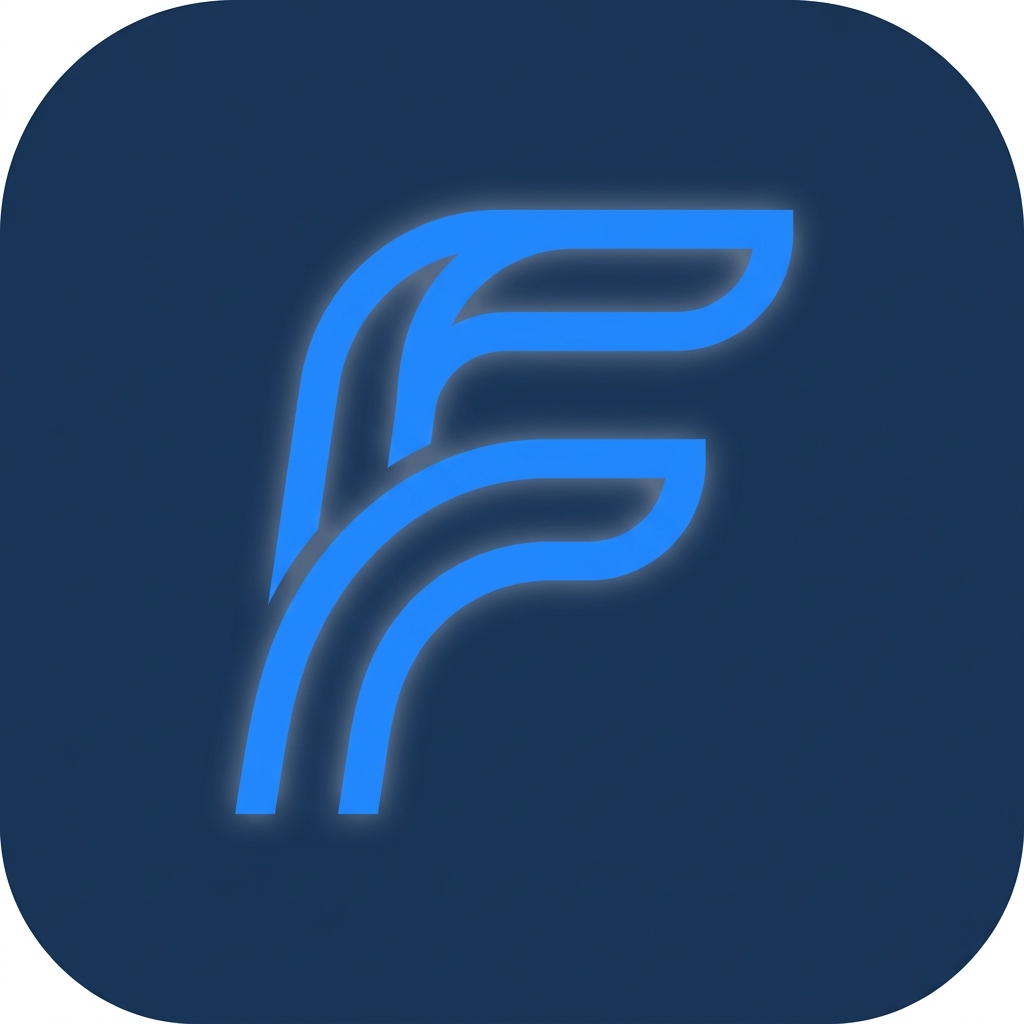
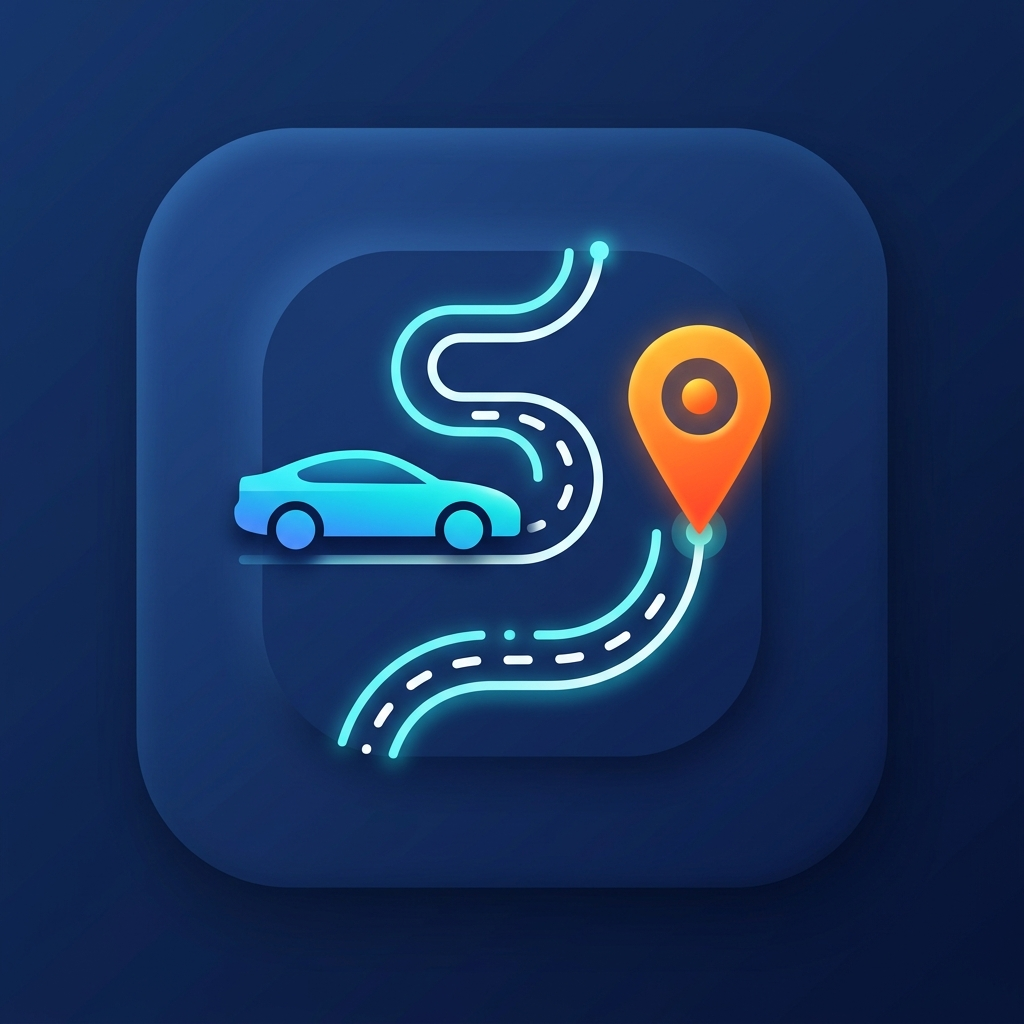
feat(mobile): uygulama logosu premium gece mavisi tasarimla yenilendi

diff --git a/mobile-app/src/screens/HomeScreen.js b/mobile-app/src/screens/HomeScreen.js
@@ -6,6 +6,7 @@ import { MaterialCommunityIcons as Icon } from '@expo/vector-icons';
 import { AuthContext } from '../context/AuthContext';
 import api from '../api/axios';
 import { LinearGradient } from 'expo-linear-gradient';
+import { BlurView } from 'expo-blur';
 import dayjs from 'dayjs';
 import 'dayjs/locale/tr';
 
@@ -65,18 +66,52 @@ export default function HomeScreen({ navigation }) {
     };
 
     const KpiCard = ({ icon, title, value, gradientColors, darkColor, isHalf }) => (
-        <View style={[styles.kpi3DBase, { backgroundColor: darkColor }]}>
-            <LinearGradient colors={gradientColors} style={[styles.kpiCard, isHalf && { padding: 18, flexDirection: 'column', alignItems: 'flex-start' }]} start={{x: 0, y: 0}} end={{x: 1, y: 1}}>
-                <View style={[styles.kpiIconBox, { shadowColor: darkColor, backgroundColor: 'transparent' }, isHalf && { width: 46, height: 46, borderRadius: 14, marginBottom: 12, marginRight: 0 }]}>
-                    <Image source={{ uri: get3DIcon(icon) }} style={{ width: isHalf ? 36 : 48, height: isHalf ? 36 : 48 }} resizeMode="contain" />
-                </View>
-                <View style={[styles.kpiInfo, isHalf && { width: '100%' }]}>
-                    <Text style={[styles.kpiValue, isHalf && { fontSize: 28 }]} adjustsFontSizeToFit numberOfLines={1}>{value !== undefined ? value : '-'}</Text>
-                    <Text style={[styles.kpiTitle, isHalf && { fontSize: 13 }]} adjustsFontSizeToFit numberOfLines={1}>{title}</Text>
-                </View>
-            </LinearGradient>
+        <View style={[styles.kpi3DBase, { shadowColor: darkColor }]}>
+            <BlurView intensity={30} tint="dark" style={{ borderRadius: 28, overflow: 'hidden' }}>
+                <LinearGradient colors={[gradientColors[0] + '90', gradientColors[1] + '50']} style={[styles.kpiCard, isHalf && { padding: 18, flexDirection: 'column', alignItems: 'flex-start' }]} start={{x: 0, y: 0}} end={{x: 1, y: 1}}>
+                    <View style={[styles.kpiIconBox, { shadowColor: darkColor, backgroundColor: 'rgba(255,255,255,0.1)' }, isHalf && { width: 46, height: 46, borderRadius: 14, marginBottom: 12, marginRight: 0 }]}>
+                        <Image source={{ uri: get3DIcon(icon) }} style={{ width: isHalf ? 36 : 48, height: isHalf ? 36 : 48 }} resizeMode="contain" />
+                    </View>
+                    <View style={[styles.kpiInfo, isHalf && { width: '100%' }]}>
+                        <Text style={[styles.kpiValue, isHalf && { fontSize: 28 }]} adjustsFontSizeToFit numberOfLines={1}>{value !== undefined ? value : '-'}</Text>
+                        <Text style={[styles.kpiTitle, isHalf && { fontSize: 13 }]} adjustsFontSizeToFit numberOfLines={1}>{title}</Text>
+                    </View>
+                </LinearGradient>
+            </BlurView>
         </View>
     );
+
+    const QuickActions = () => {
+        const actions = [
+            { id: 1, title: 'Yeni Şoför', icon: 'account-plus', color: '#8B5CF6', route: 'Personnel' },
+            { id: 2, title: 'Yeni Araç', icon: 'car-side', color: '#3B82F6', route: 'VehiclesTab' },
+            { id: 3, title: 'Seferler', icon: 'map-marker-path', color: '#10B981', route: 'Trips' },
+            { id: 4, title: 'Maaşlar', icon: 'cash-multiple', color: '#F59E0B', route: 'Payroll' },
+        ];
+
+        return (
+            <View style={{ marginBottom: 30 }}>
+                <Text style={styles.sectionTitle}>Hızlı İşlemler</Text>
+                <ScrollView horizontal showsHorizontalScrollIndicator={false} contentContainerStyle={{ gap: 16 }}>
+                    {actions.map(action => (
+                        <TouchableOpacity 
+                            key={action.id} 
+                            style={styles.quickActionCard}
+                            activeOpacity={0.7}
+                            onPress={() => navigation.navigate(action.route)}
+                        >
+                            <BlurView intensity={20} tint="light" style={styles.quickActionBlur}>
+                                <View style={[styles.quickActionIconBox, { backgroundColor: action.color + '25' }]}>
+                                    <Icon name={action.icon} size={26} color={action.color} />
+                                </View>
+                                <Text style={styles.quickActionTitle}>{action.title}</Text>
+                            </BlurView>
+                        </TouchableOpacity>
+                    ))}
+                </ScrollView>
+            </View>
+        );
+    };
 
     const renderMaintenanceHealth = () => {
         if (!stats?.maintenance_health || stats.maintenance_health.length === 0) {
@@ -91,6 +126,7 @@ export default function HomeScreen({ navigation }) {
 
         return stats.maintenance_health.map((mh, i) => (
             <View key={i} style={styles.mhCard}>
+                <BlurView intensity={40} tint="dark" style={StyleSheet.absoluteFillObject} />
                 <LinearGradient colors={['rgba(255,255,255,0.05)', 'transparent']} style={StyleSheet.absoluteFillObject} />
                 <View style={styles.mhHeader}>
                     <View style={styles.mhHeaderLeft}>
@@ -157,6 +193,9 @@ export default function HomeScreen({ navigation }) {
                     {stats ? (
                         <Animated.View style={{ opacity: fadeAnim, transform: [{ translateY: slideAnim }] }}>
                             
+                            {/* Hızlı İşlemler */}
+                            <QuickActions />
+
                             {/* KPI Grid */}
                             <Text style={styles.sectionTitle}>Filo Özeti</Text>
                             <View style={styles.kpiContainer}>
@@ -212,15 +251,20 @@ const styles = StyleSheet.create({
 
     kpiContainer: { gap: 12 },
     kpiRow: { flexDirection: 'row' },
-    kpi3DBase: { borderRadius: 28, paddingBottom: 8, paddingRight: 2, shadowColor: '#000', shadowOffset: { width: 0, height: 10 }, shadowopacity: 1, shadowRadius: 15, elevation: 12, marginBottom: 8 },
-    kpiCard: { padding: 22, flexDirection: 'row', alignItems: 'center', borderRadius: 28, borderWidth: 1, borderColor: 'rgba(255,255,255,0.2)' },
-    kpiIconBox: { width: 60, height: 60, borderRadius: 20, backgroundColor: 'rgba(255,255,255,0.15)', alignItems: 'center', justifyContent: 'center', marginRight: 16, shadowOffset: { width: 0, height: 4 }, shadowopacity: 1, shadowRadius: 6, elevation: 4 },
+    kpi3DBase: { borderRadius: 28, shadowColor: '#000', shadowOffset: { width: 0, height: 10 }, shadowOpacity: 0.8, shadowRadius: 15, elevation: 12, marginBottom: 8 },
+    kpiCard: { padding: 22, flexDirection: 'row', alignItems: 'center', borderRadius: 28, borderWidth: 1, borderColor: 'rgba(255,255,255,0.1)' },
+    kpiIconBox: { width: 60, height: 60, borderRadius: 20, alignItems: 'center', justifyContent: 'center', marginRight: 16, shadowOffset: { width: 0, height: 4 }, shadowOpacity: 1, shadowRadius: 6, elevation: 4 },
     kpiInfo: { flex: 1 },
-    kpiValue: { fontSize: 36, fontWeight: '900', color: '#FFF', letterSpacing: -1, marginBottom: 2, textShadowColor: 'rgba(0,0,0,0.3)', textShadowOffset: { width: 0, height: 2 }, textShadowRadius: 4 },
-    kpiTitle: { fontSize: 14, fontWeight: '700', color: 'rgba(255,255,255,0.9)', letterSpacing: 0.5 },
+    kpiValue: { fontSize: 36, fontWeight: '900', color: '#FFF', letterSpacing: -1, marginBottom: 2, textShadowColor: 'rgba(0,0,0,0.5)', textShadowOffset: { width: 0, height: 2 }, textShadowRadius: 8 },
+    kpiTitle: { fontSize: 14, fontWeight: '700', color: 'rgba(255,255,255,0.8)', letterSpacing: 0.5 },
+
+    quickActionCard: { width: 105, height: 115, borderRadius: 24, overflow: 'hidden', borderWidth: 1, borderColor: 'rgba(255,255,255,0.1)' },
+    quickActionBlur: { flex: 1, alignItems: 'center', justifyContent: 'center', padding: 10, backgroundColor: 'rgba(255,255,255,0.03)' },
+    quickActionIconBox: { width: 54, height: 54, borderRadius: 20, alignItems: 'center', justifyContent: 'center', marginBottom: 10 },
+    quickActionTitle: { color: '#F8FAFC', fontSize: 13, fontWeight: '700' },
 
     mhContainer: { gap: 16 },
-    mhCard: { backgroundColor: '#0F172A', borderRadius: 24, padding: 20, borderWidth: 1, borderColor: '#1E293B', shadowColor: '#000', shadowOffset: { width: 0, height: 8 }, shadowopacity: 1, shadowRadius: 12, elevation: 8, overflow: 'hidden' },
+    mhCard: { backgroundColor: 'transparent', borderRadius: 24, padding: 20, borderWidth: 1, borderColor: 'rgba(255,255,255,0.08)', shadowColor: '#000', shadowOffset: { width: 0, height: 8 }, shadowOpacity: 1, shadowRadius: 12, elevation: 8, overflow: 'hidden' },
     mhHeader: { flexDirection: 'row', justifyContent: 'space-between', alignItems: 'center', marginBottom: 16 },
     mhHeaderLeft: { flex: 1 },
     mhPlateBox: { flexDirection: 'row', alignItems: 'center', backgroundColor: 'rgba(59, 130, 246, 0.15)', paddingHorizontal: 12, paddingVertical: 6, borderRadius: 10, alignSelf: 'flex-start', marginBottom: 8, borderWidth: 1, borderColor: 'rgba(59, 130, 246, 0.3)' },